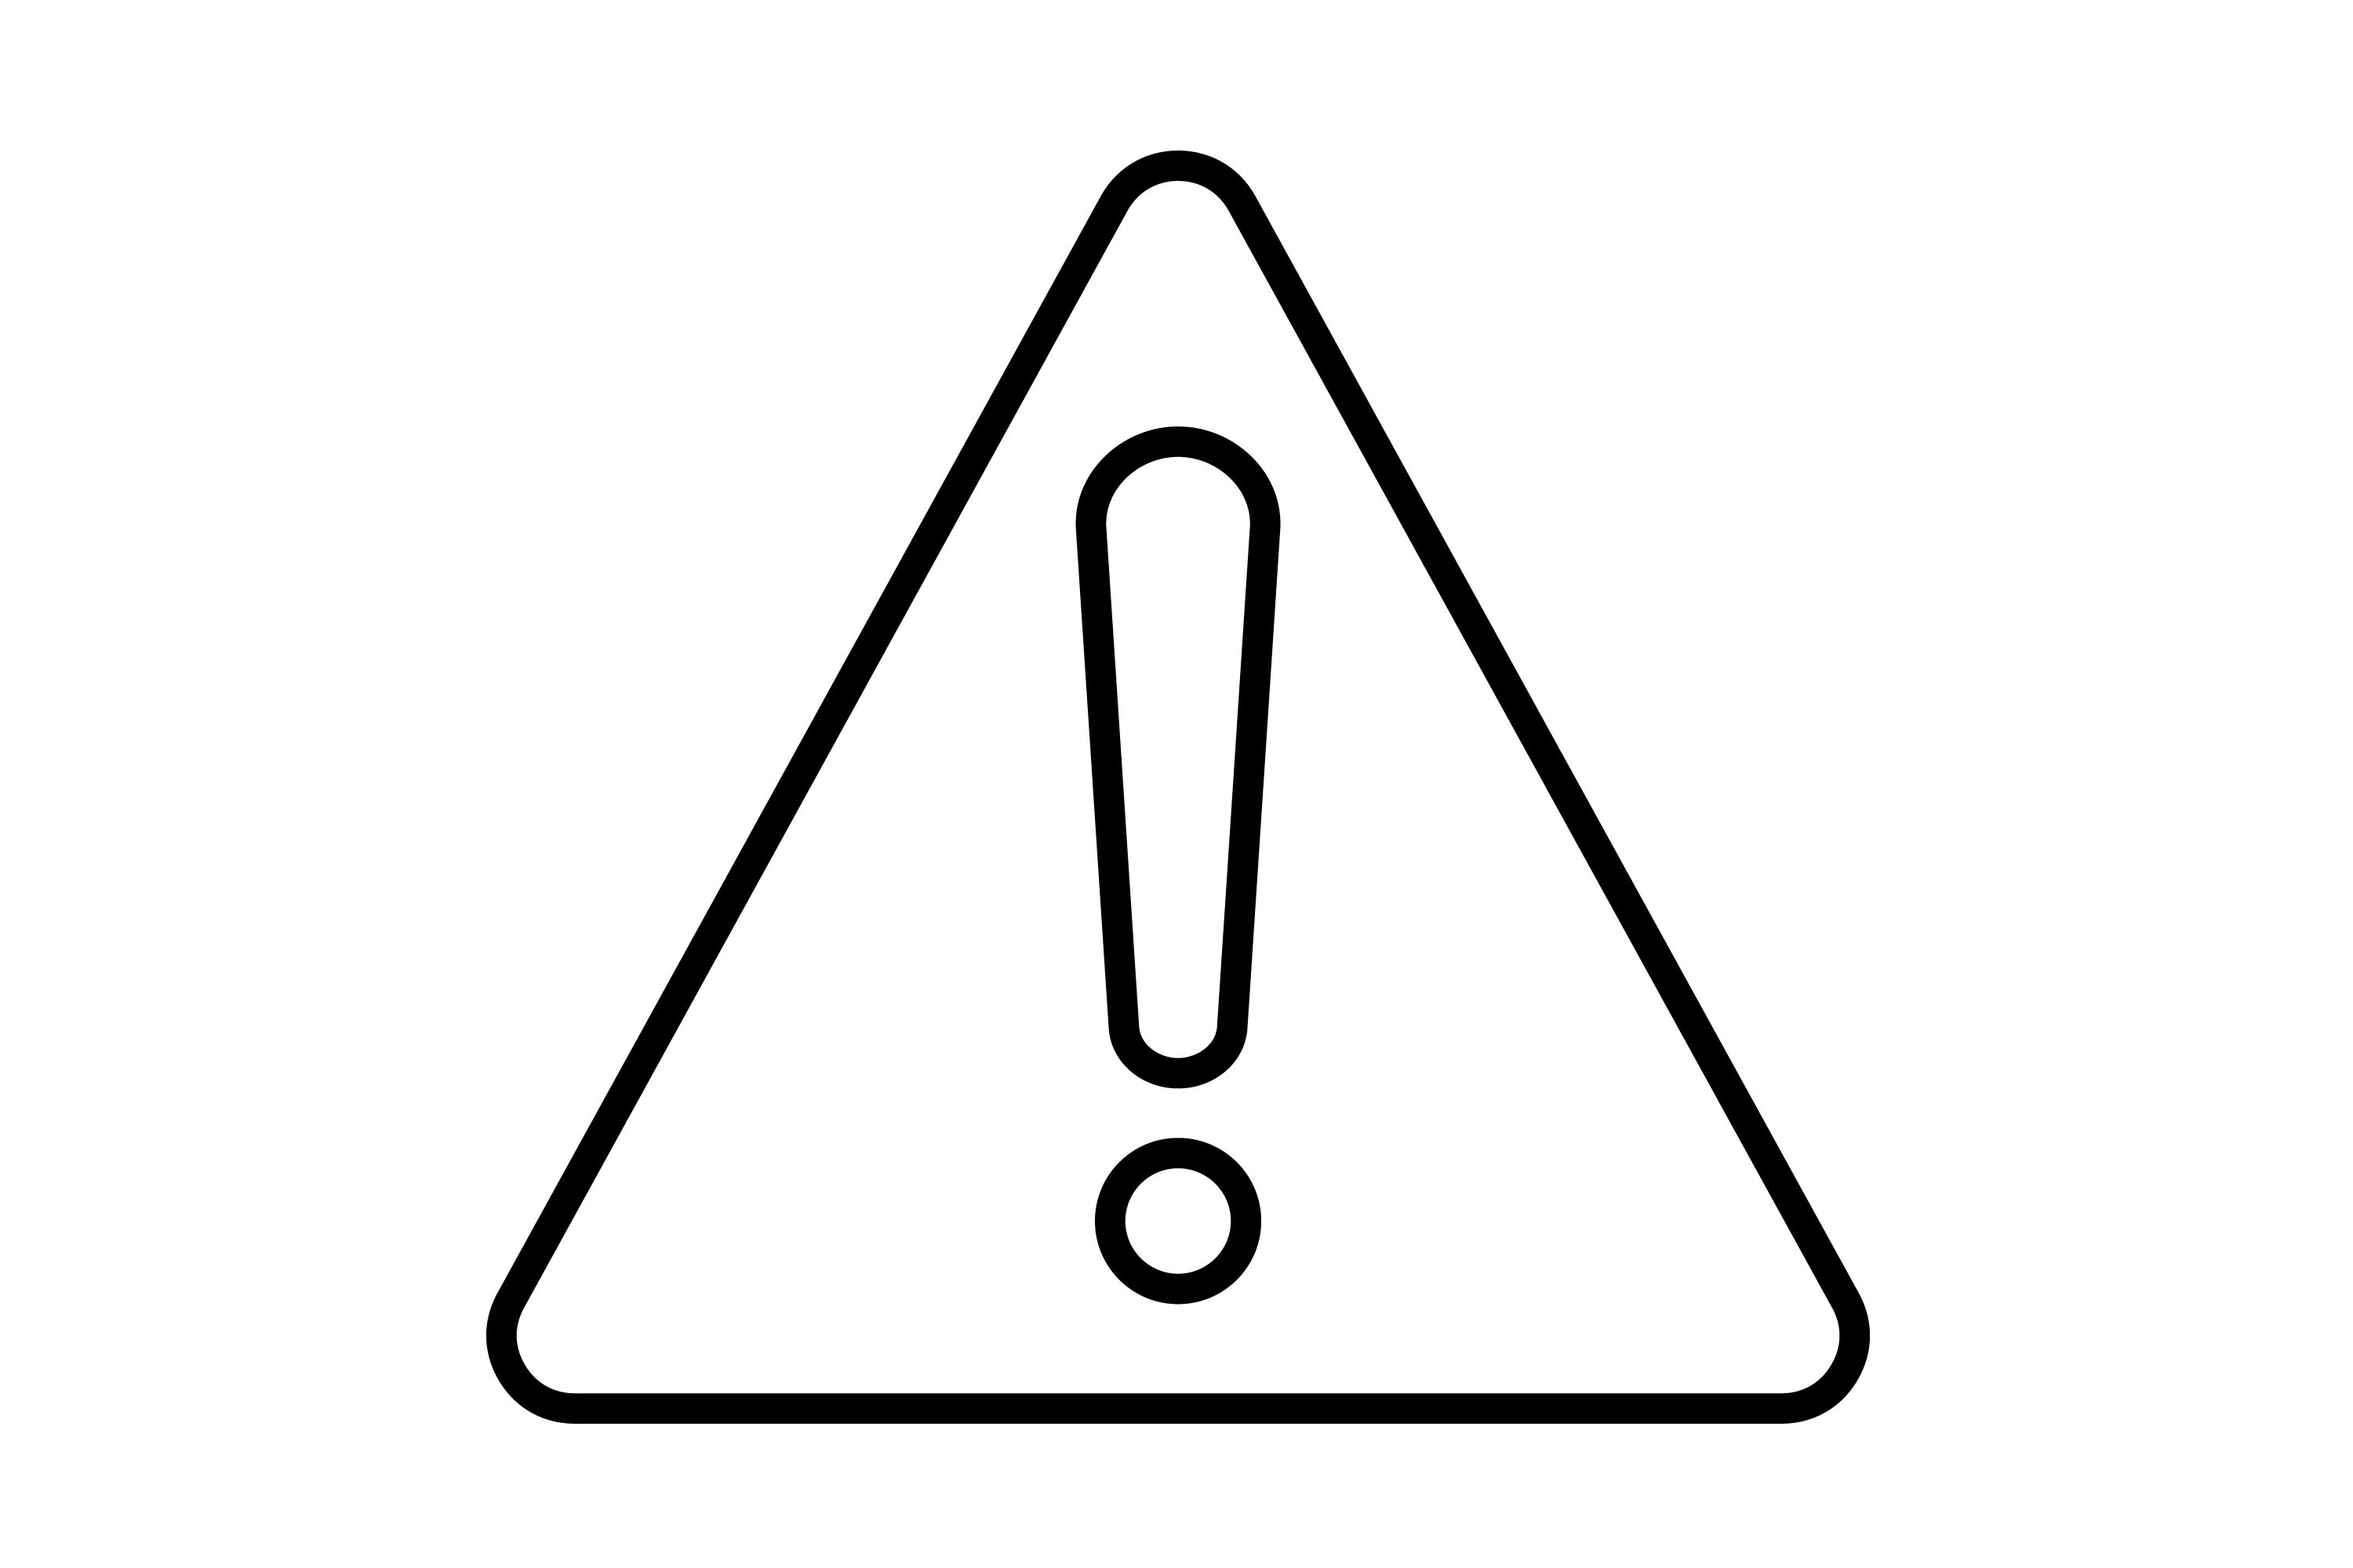
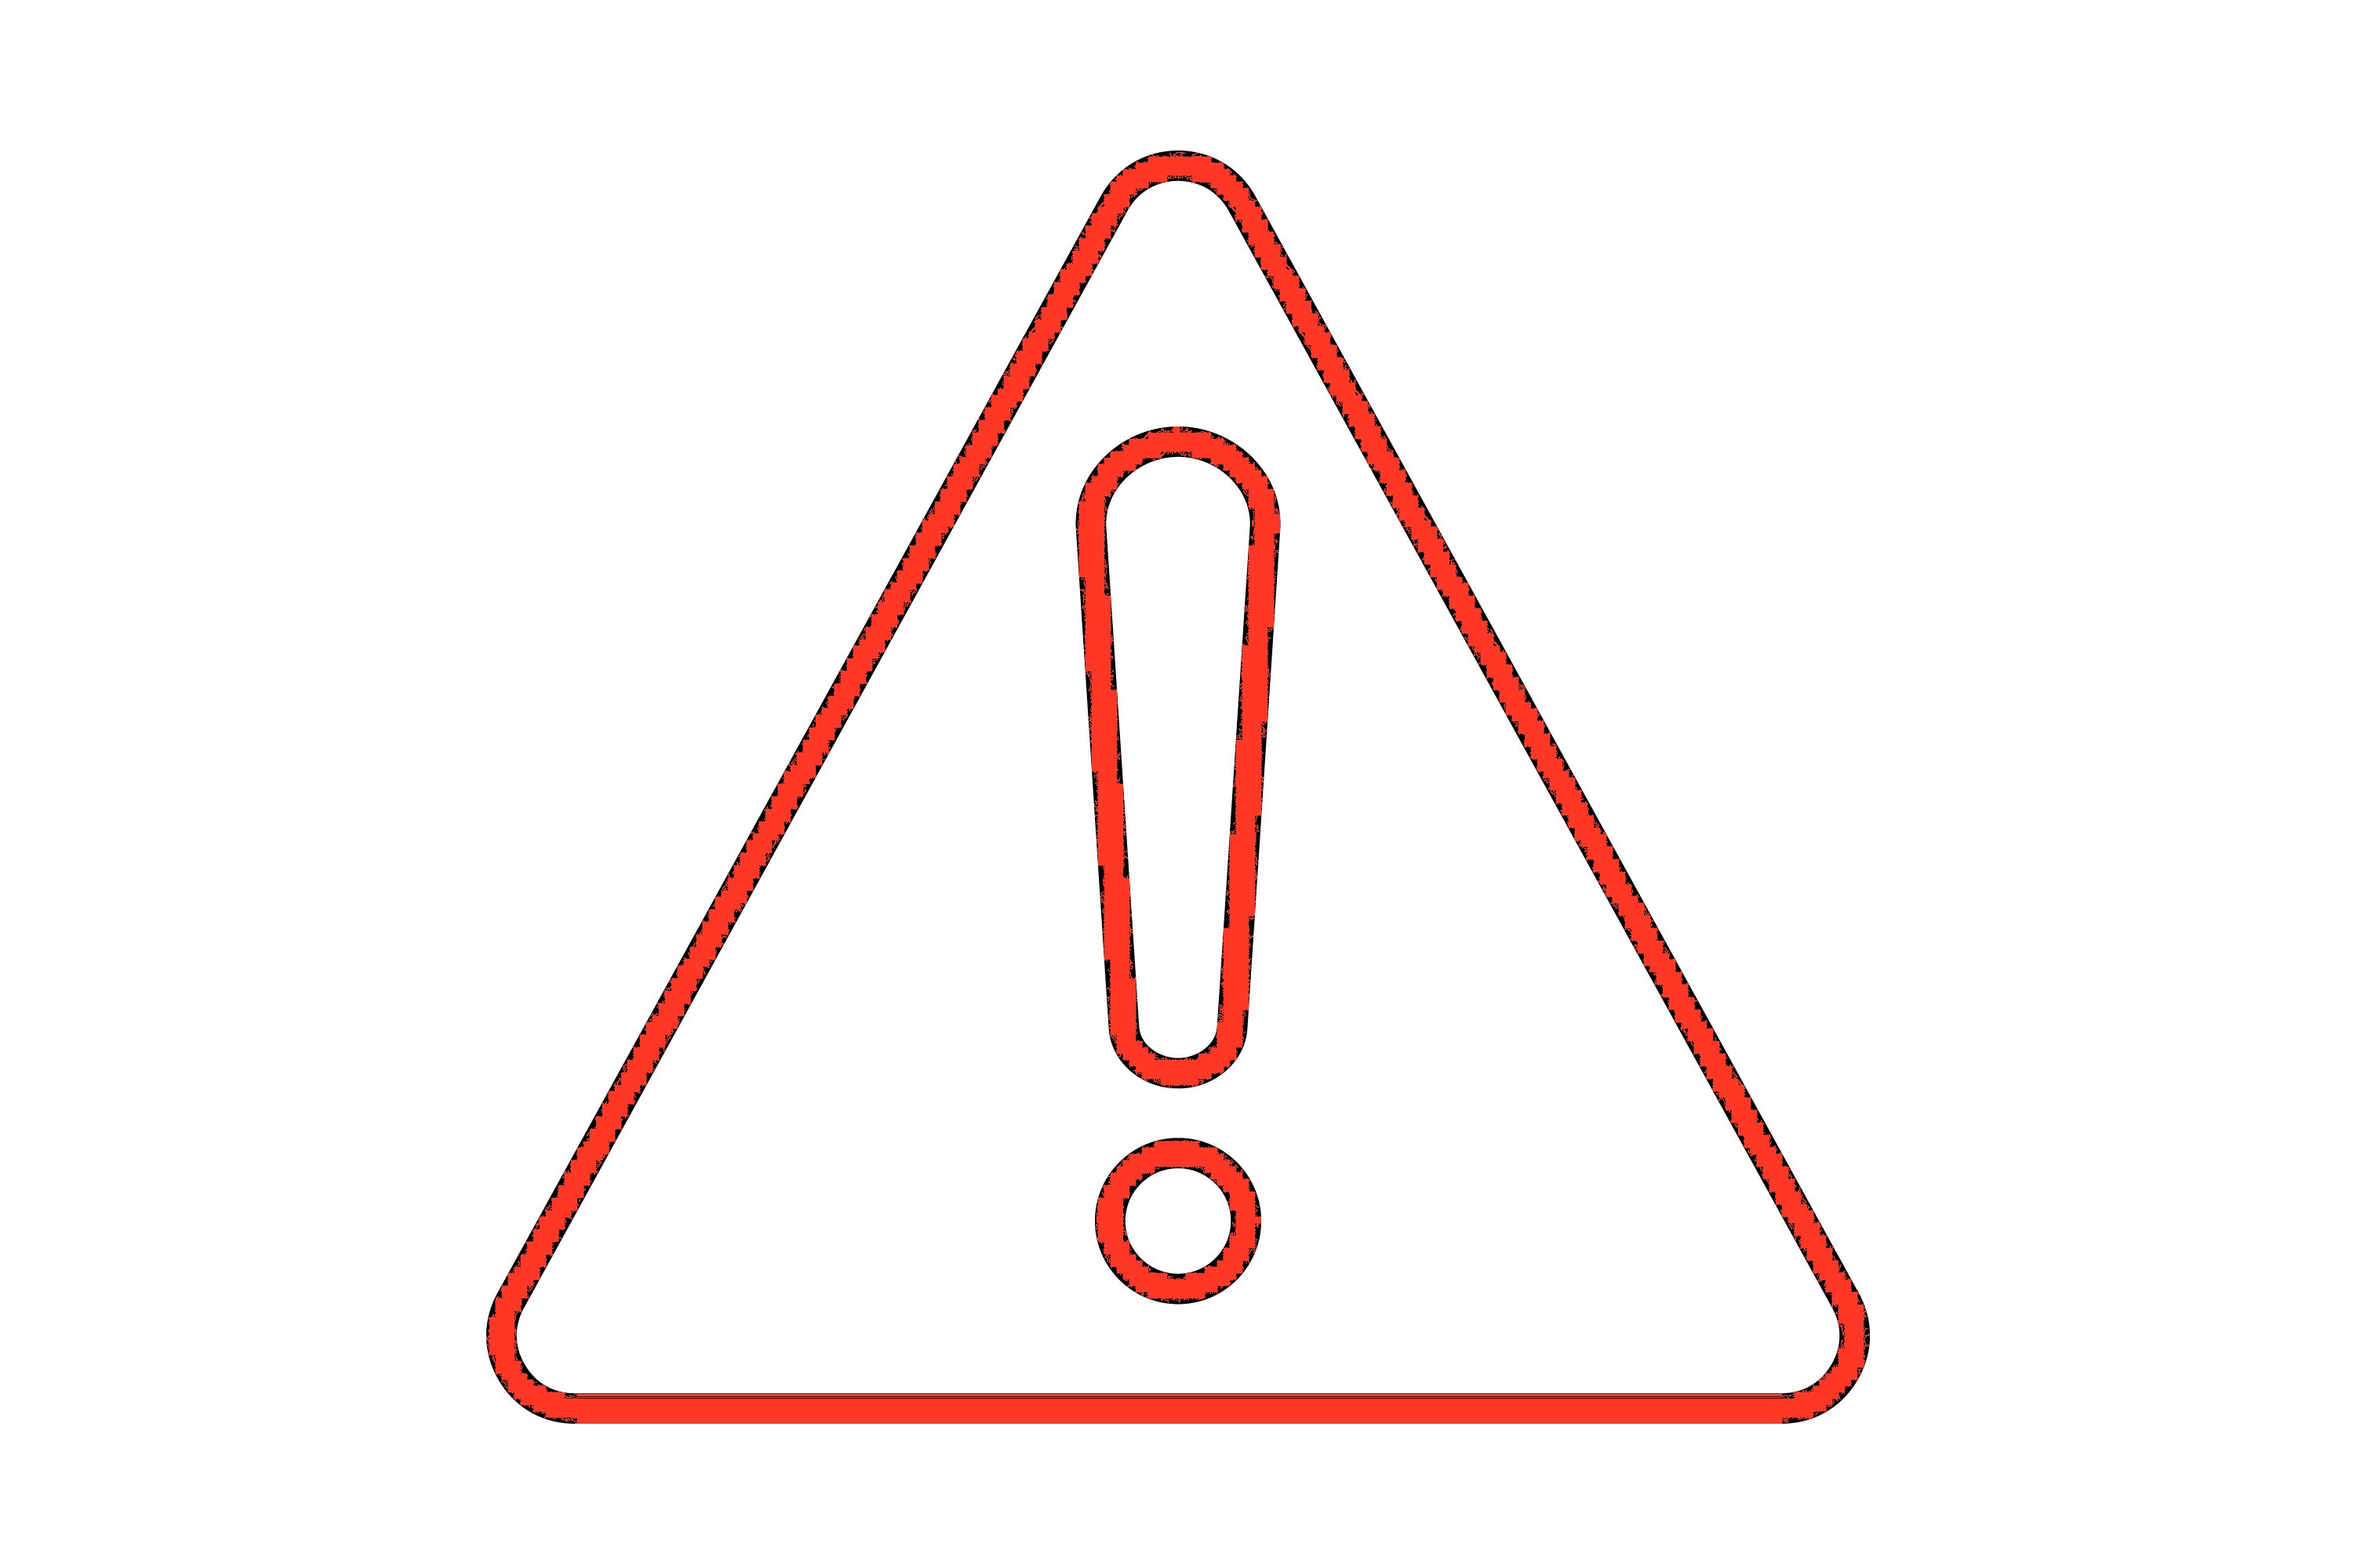
feat: pequenos ajustes

diff --git a/lib/screens/deletar_conta.dart b/lib/screens/deletar_conta.dart
@@ -51,12 +51,12 @@ class _DeletarContaPageState extends State<DeletarContaPage> {
     if (response.statusCode == 204) {
       await prefs.remove('token');
 
-      // Aguarda um frame para garantir que a navegação esteja completa antes de mostrar a Flushbar
       Navigator.of(context).pushNamedAndRemoveUntil(
-        '/home', 
+        '/home',
         (route) => false,
-        arguments: {'desativado': true},  
+        arguments: {'desativado': true},
       );
+
       Future.delayed(const Duration(milliseconds: 500), () {
         WidgetsBinding.instance.addPostFrameCallback((_) {
           Flushbar(
@@ -133,7 +133,7 @@ class _DeletarContaPageState extends State<DeletarContaPage> {
           children: [
             const SizedBox(height: 12),
             Image.asset(
-              'assets/images/warning.png',
+              'assets/images/warning.jpg',
               height: 120,
             ),
             const SizedBox(height: 24),
@@ -146,16 +146,16 @@ class _DeletarContaPageState extends State<DeletarContaPage> {
                 textAlign: TextAlign.left,
                 style: TextStyle(
                   fontSize: 13,
-                  fontWeight: FontWeight.w500,
+                  fontWeight: FontWeight.bold,
                 ),
               ),
             ),
-            const SizedBox(height: 24),
+            const SizedBox(height: 40),
             const Align(
               alignment: Alignment.centerLeft,
               child: Text(
                 'Para prosseguir, insira a sua senha',
-                style: TextStyle(fontSize: 15),
+                style: TextStyle(fontSize: 13, fontWeight: FontWeight.bold),
               ),
             ),
             const SizedBox(height: 12),
@@ -164,11 +164,18 @@ class _DeletarContaPageState extends State<DeletarContaPage> {
               obscureText: _obscureText,
               decoration: InputDecoration(
                 hintText: 'Senha',
-                border: OutlineInputBorder(
+                enabledBorder: OutlineInputBorder(
                   borderRadius: BorderRadius.circular(8),
                   borderSide: BorderSide(
                     width: 2.0,
-                    color: Colors.grey[200]!,
+                    color: Colors.grey[500]!,
+                  ),
+                ),
+                focusedBorder: OutlineInputBorder(
+                  borderRadius: BorderRadius.circular(8),
+                  borderSide: BorderSide(
+                    width: 2.0,
+                    color: Colors.grey[500]!,
                   ),
                 ),
                 suffixIcon: IconButton(

diff --git a/lib/utils/alertas.dart b/lib/utils/alertas.dart
@@ -1,0 +1,28 @@
+import 'package:another_flushbar/flushbar.dart';
+import 'package:flutter/material.dart';
+
+void mostrarErro(BuildContext context, String mensagem) {
+  Flushbar(
+    title: 'Erro',
+    message: mensagem,
+    duration: const Duration(seconds: 5),
+    backgroundColor: Colors.red.shade600,
+    icon: const Icon(Icons.error_outline, color: Colors.white),
+    flushbarPosition: FlushbarPosition.TOP,
+    borderRadius: BorderRadius.circular(10),
+    margin: const EdgeInsets.all(8),
+  ).show(context);
+}
+
+void mostrarSucesso(BuildContext context, String mensagem) {
+  Flushbar(
+    title: 'Sucesso',
+    message: mensagem,
+    duration: const Duration(seconds: 3),
+    backgroundColor: Colors.green.shade600,
+    icon: const Icon(Icons.check_circle, color: Colors.white),
+    flushbarPosition: FlushbarPosition.TOP,
+    borderRadius: BorderRadius.circular(10),
+    margin: const EdgeInsets.all(8),
+  ).show(context);
+}

diff --git a/lib/main.dart b/lib/main.dart
@@ -14,9 +14,7 @@ import 'package:sudema_app/screens/splash_screen.dart';
 import 'package:sudema_app/screens/editar_perfil.dart';
 import 'package:sudema_app/screens/noticias.dart';
 import 'package:sudema_app/screens/reativar_conta.dart';
-
 import 'package:sudema_app/services/notification_handler.dart';
-
 import 'package:flutter_dotenv/flutter_dotenv.dart';
 
 Future<void> _firebaseMessagingBackgroundHandler(RemoteMessage message) async {
@@ -60,7 +58,7 @@ class MyApp extends StatelessWidget {
         '/EditarSenha': (context) => const EditarSenha(),
         '/perfil': (context) => const Perfiluser(),
         '/contatos' : (context) => const Contatos(),
-        '/deletar-conta': (context) => DeletarContaPage(),
+        '/deletar-conta': (context) => const DeletarContaPage(),
         '/reativar-conta': (context) => const ReativarContaPage(email: '', senha: ''),
       },
     );

diff --git a/lib/screens/reativar_conta.dart b/lib/screens/reativar_conta.dart
@@ -129,7 +129,7 @@ class _ReativarContaPageState extends State<ReativarContaPage> {
               'Deseja reativá-la?',
               style: TextStyle(
                 fontWeight: FontWeight.bold,
-                fontSize: 16,
+                fontSize: 18,
               ),
               textAlign: TextAlign.center,
             ),
